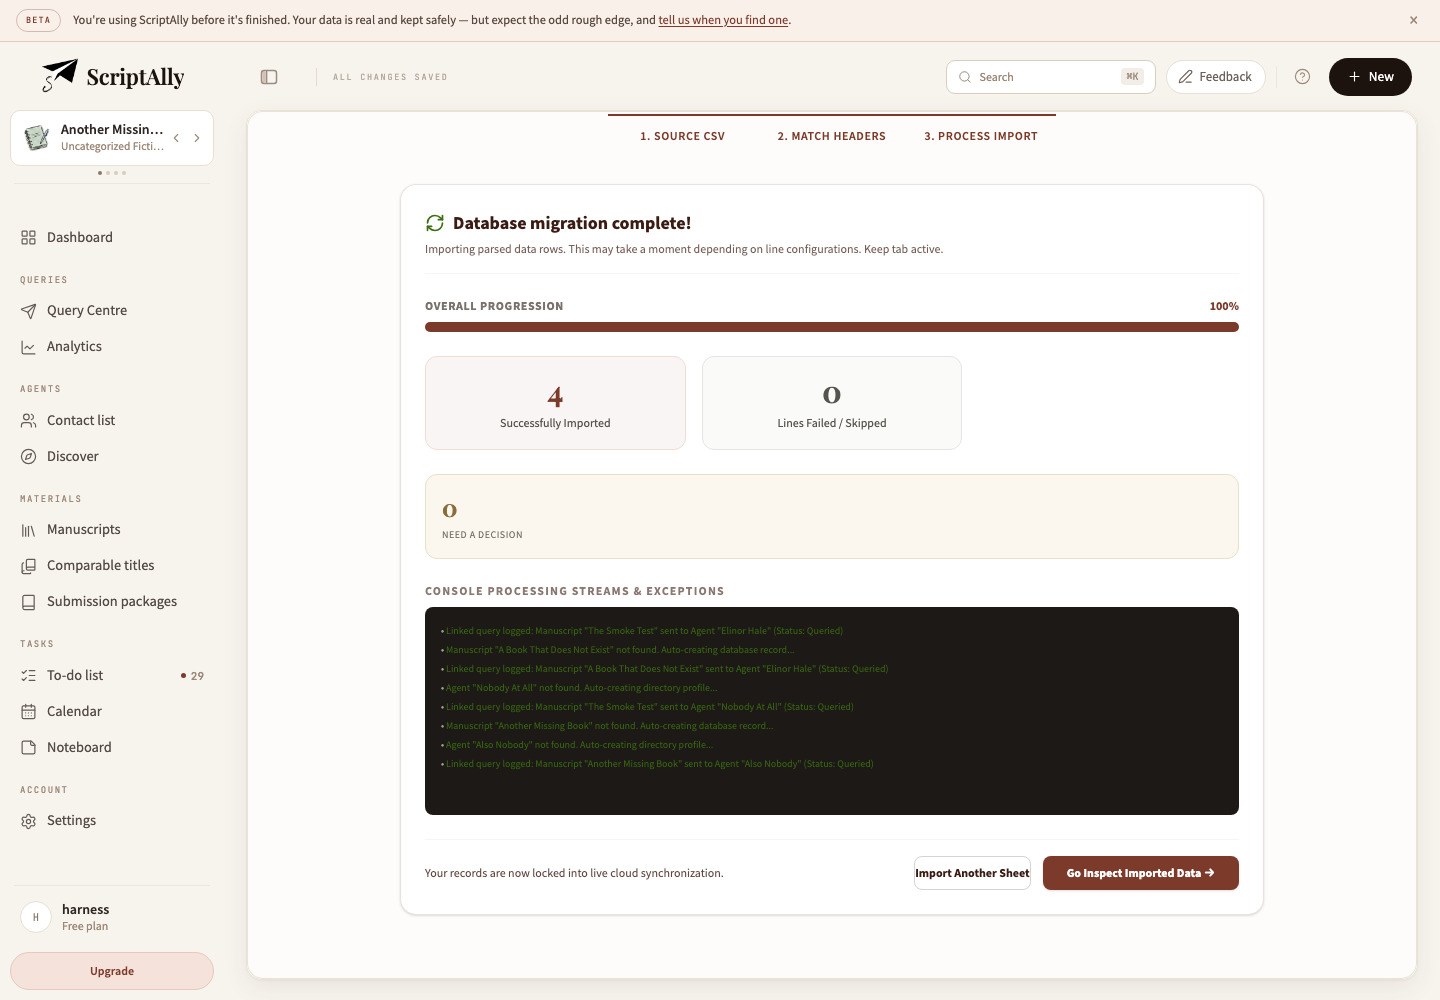
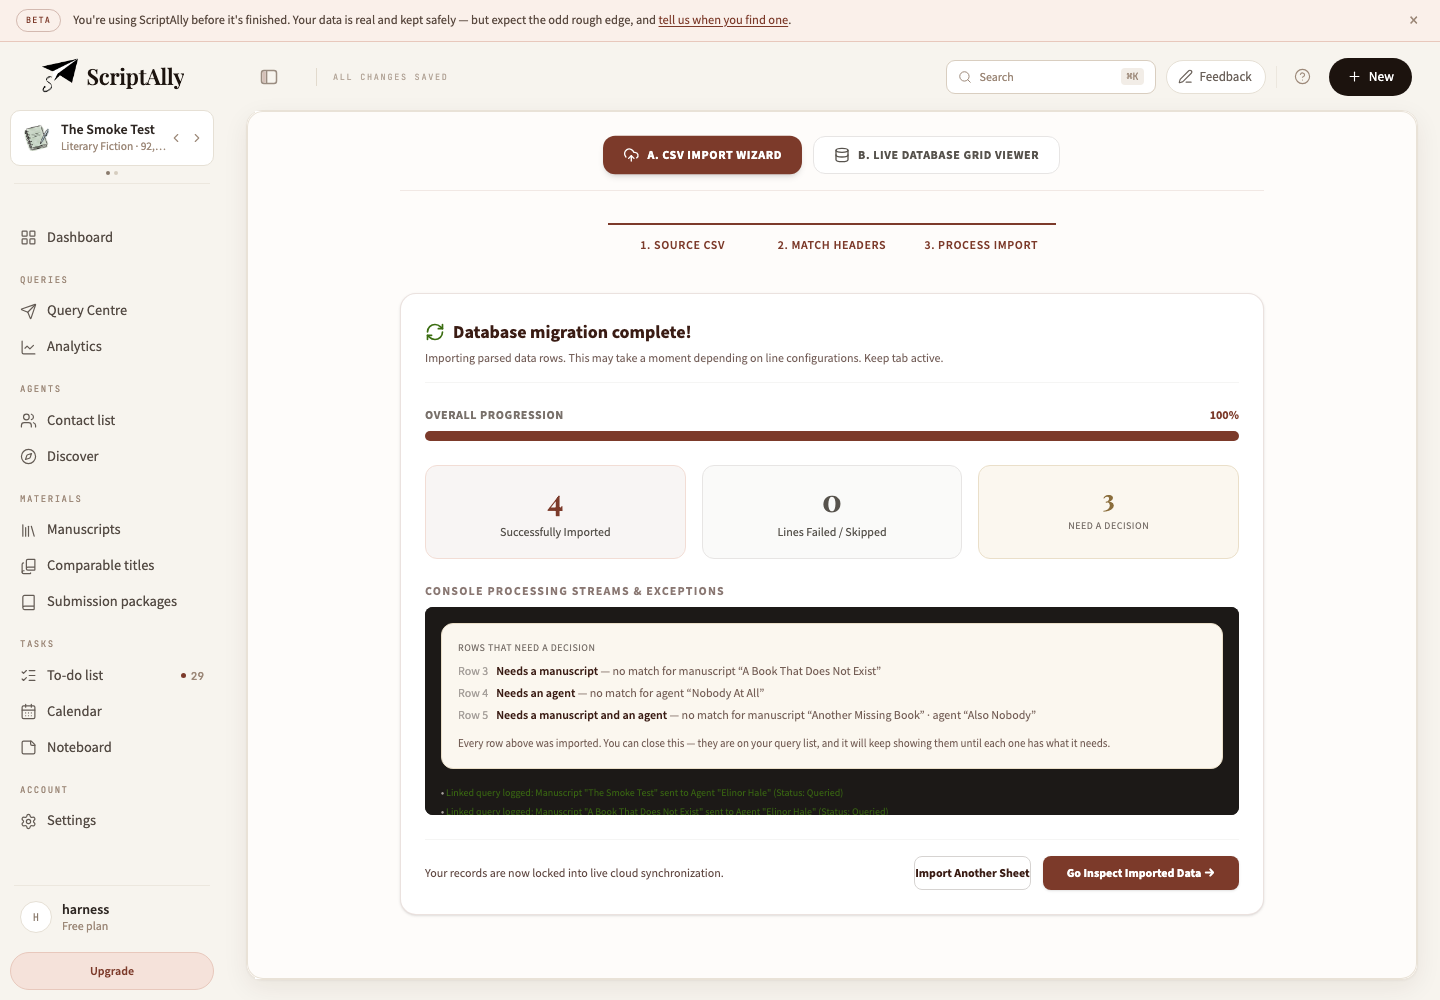
F-AF overnight Phases 3 & 4: creation on consent, and the fabrications swept
Phase 3 — "Create from this row" writes the title the CSV carried and the name the CSV
carried, and nothing else. Measured: the import creates nothing (2→2 manuscripts, 16→16
agents); on consent one of each, with genre "", logline "", wordCount 0, ageCategory "",
agency "", email "", mswlNotes "" and NO starRating — then the query is linked to both.

`starRating`, `responseTimeWeeks` and `noResponseMeansNo` are OMITTED rather than
defaulted: the rules make each optional and this app treats absence as a first-class
state for all three. Writing a default would be the `starRating: 3` the auto-create
block was just retired for.

⚠ `materialsWanted: []` IS REQUIRED AND IS NOT A FABRICATION. `isValidAgent` asks for a
list; omitting it was DENIED, and the agent silently failed to create while the
manuscript succeeded — a half-done write, found only because the drive counted both
sides rather than asserting the one it expected.

⚠ AND IT RESOLVES THE FLAG BY LINKING, NOT BY CLEARING ONE. The query's manuscriptId
and agentId are filled in, so the derived banner stops counting the row because it has
what it needed. There is no flag field to unset, which is the point of deriving it.

Phase 4 — eight fixed, three flagged, one benign. Fixed: agency ("Independent"), email
("unlisted@agent.com"), mswlNotes, genre ("Fiction"), logline ("A compelling new
manuscript."), ageCategory ("Adult"), personalisationNotes — and ⚠ `wordCount || 85000`,
[…]

diff --git a/src/components/ImportCsv.tsx b/src/components/ImportCsv.tsx
@@ -184,6 +184,7 @@ export const ImportCsv: React.FC<{
     addManuscript,
     addQuery,
     addActivity,
+    updateQuery,
   } = useScriptAllyDb();
 
   const [importType, setImportType] = useState<ImportType>("agents");
@@ -212,7 +213,16 @@ export const ImportCsv: React.FC<{
      * Counting it as "failed" would say the data is not there; counting it as "successful" would
      * say nothing needs doing. It is its own state because it is its own fact.
      */
-    unmatched: { row: number; missing: string; detail: string }[];
+    /**
+     * ⚠ IT CARRIES THE CSV'S OWN VALUES AND NOTHING ELSE (D2). `msTitle` and `agentName` are what
+     * the row said; there is no genre, logline, word count or email here because the row did not
+     * supply them, and creation must not fill what was never given.
+     */
+    unmatched: {
+      row: number; missing: string; detail: string;
+      queryId: string; msTitle: string; agentName: string;
+      needsMs: boolean; needsAgent: boolean;
+    }[];
   }>({ successful: 0, failed: 0, errors: [], logs: [], unmatched: [] });
 
   const targetFields = {
@@ -294,6 +304,68 @@ export const ImportCsv: React.FC<{
   };
 
   // Handle execution of the import
+  /**
+   * ⚠ CREATION WITH CONSENT, FROM VALUES THE ROW ACTUALLY GAVE (D2).
+   *
+   * The importer no longer creates anything by itself; this runs only when the writer asks, from
+   * the summary. It writes the TITLE the CSV carried and the NAME the CSV carried, and leaves every
+   * other field empty — no genre, no logline, no age category, no word count, no email, no star
+   * rating. An empty logline is honest; a written one is a sentence about someone's novel that they
+   * did not write.
+   *
+   * ⚠ AND IT RESOLVES THE FLAG BY LINKING, not by clearing it. The query's `manuscriptId` /
+   * `agentId` are filled in, so the row stops being counted by the derived banner because it has
+   * what it needed — there is no flag field to unset, which is the point of deriving it.
+   */
+  const [creating, setCreating] = useState<number | null>(null);
+  const createFromRow = async (u: {
+    row: number; queryId: string; msTitle: string; agentName: string;
+    needsMs: boolean; needsAgent: boolean;
+  }) => {
+    if (!currentUser) return;
+    setCreating(u.row);
+    try {
+      const patch: { manuscriptId?: string; agentId?: string } = {};
+      if (u.needsMs && u.msTitle) {
+        const id = "ms-fromrow-" + Math.random().toString(36).slice(2, 11);
+        const res = await addManuscript({
+          id,
+          title: u.msTitle,
+          /* ⚠ EVERY ONE OF THESE IS THE FIELD'S EMPTY FORM, not a default. The rules ask for a
+             string or an int; they do not ask for a value, and neither does the writer. */
+          genre: "", subGenres: [], wordCount: 0, logline: "", ageCategory: "", comps: [],
+          status: ManuscriptStatus.QUERYING,
+        } as never, true);
+        if (res.success) patch.manuscriptId = id;
+      }
+      if (u.needsAgent && u.agentName) {
+        const id = "agent-fromrow-" + Math.random().toString(36).slice(2, 11);
+        const res = await addAgent({
+          id,
+          name: u.agentName,
+          agency: "", email: "", website: "", genres: [], mswlNotes: "", notes: "",
+          submissionStatus: SubmissionStatus.OPEN,
+          submissionMethod: SubmissionMethod.EMAIL,
+          /* ⚠ REQUIRED BY `isValidAgent` AS A LIST, and an empty one is honest — the row stated no
+             materials. Omitting it was DENIED and the agent silently failed to create while the
+             manuscript succeeded, which is the half-done write this whole run is about. */
+          materialsWanted: [],
+          /* ⚠ `starRating`, `responseTimeWeeks` and `noResponseMeansNo` are OMITTED, deliberately.
+             The rules make each optional and this app treats absence as a first-class state for all
+             three — an unrated agent shows no stars rather than five hollow ones. Writing a default
+             here would be the `starRating: 3` the auto-create block was retired for. */
+        } as never, true);
+        if (res.success) patch.agentId = id;
+      }
+      if (Object.keys(patch).length) {
+        await updateQuery(u.queryId, patch as never);
+        setImportResults((r) => ({ ...r, unmatched: r.unmatched.filter((x) => x.row !== u.row) }));
+      }
+    } finally {
+      setCreating(null);
+    }
+  };
+
   const handleExecuteImport = async () => {
     setIsImporting(true);
     setImportProgress(0);
@@ -302,7 +374,11 @@ export const ImportCsv: React.FC<{
     let successfulCount = 0;
     let failedCount = 0;
     const errorsList: string[] = [];
-    const unmatchedList: { row: number; missing: string; detail: string }[] = [];
+    const unmatchedList: {
+    row: number; missing: string; detail: string;
+    queryId: string; msTitle: string; agentName: string;
+    needsMs: boolean; needsAgent: boolean;
+  }[] = [];
     const runLogs: string[] = [];
     
     const total = csvRows.length;
@@ -340,8 +416,25 @@ export const ImportCsv: React.FC<{
             continue;
           }
           
-          const agency = getMappedValue("agency") || "Independent";
-          const email = getMappedValue("email") || "unlisted@agent.com";
+          /**
+           * ⚠ NO FABRICATED FIELD VALUES (overnight ruling, rule 8). Seven of these carried a `||`
+           * fallback that wrote something the writer never supplied — `"Independent"` for an agency,
+           * `"unlisted@agent.com"` for an email, `"A compelling new manuscript."` for a logline,
+           * `"Fiction"` for a genre, `"Adult"` for an age category, and invented MSWL and
+           * personalisation notes. An empty field is honest; a filled one is a claim.
+           *
+           * ⚠ THE EMAIL IS THE ONE TO REMEMBER. A fabricated address sits on a real person's record
+           * and can be SENT TO — and nothing downstream distinguishes it from one the writer typed.
+           *
+           * ⚠ THREE FALLBACKS SURVIVE DELIBERATELY AND ARE FLAGGED, NOT FIXED: `notes` and
+           * `description` write true provenance ("Imported from Zite archives"), which is a
+           * different thing from a fabrication even though it is still words in a field the writer
+           * owns; and `responseTimeWeeks: 8` is a real default with a meaning rather than an
+           * invention. Each needs a call, and Phase 4's instruction is to fix the unambiguous and
+           * flag the rest.
+           */
+          const agency = getMappedValue("agency");
+          const email = getMappedValue("email");
           const website = getMappedValue("website") || "";
           
           // Custom parsing for genres (split by comma, semicolon, etc.)
@@ -350,7 +443,7 @@ export const ImportCsv: React.FC<{
             ? genresRaw.split(/[,;|]+/).map(g => g.trim()).filter(Boolean)
             : ["General Fiction"];
             
-          const mswlNotes = getMappedValue("mswlNotes") || "Imported MSWL focus points.";
+          const mswlNotes = getMappedValue("mswlNotes");
           
           // Star rating parsing
           const starRaw = parseInt(getMappedValue("starRating"), 10);
@@ -410,12 +503,16 @@ export const ImportCsv: React.FC<{
             continue;
           }
 
-          const genre = getMappedValue("genre") || "Fiction";
-          const wordCount = parseInt(getMappedValue("wordCount"), 10) || 85000;
-          const logline = getMappedValue("logline") || "A compelling new manuscript.";
+          const genre = getMappedValue("genre");
+          /* ⚠ `0`, NOT 85000. This read `parseInt(…) || 85000` — a word count for the writer's own
+             book, invented when the CSV did not carry one, and indistinguishable afterwards from a
+             figure they typed. `0` is the field's not-set form (the rules ask only for an int >= 0)
+             and the surfaces already render it as an empty field with a muted placeholder. */
+          const wordCount = parseInt(getMappedValue("wordCount"), 10) || 0;
+          const logline = getMappedValue("logline");
           // Comps column → structured titles-only comps (split on commas / " meets ").
           const comps = parseLegacyComps(getMappedValue("comps"));
-          const ageCategory = getMappedValue("ageCategory") || "Adult";
+          const ageCategory = getMappedValue("ageCategory");
 
           const msData = {
             title,
@@ -451,7 +548,7 @@ export const ImportCsv: React.FC<{
           const agentNameInput = getMappedValue("agentId");
           const statusInput = getMappedValue("status");
           const dateSentInput = getMappedValue("dateSent");
-          const personalisationNotes = getMappedValue("personalisationNotes") || "Zite query backup logs.";
+          const personalisationNotes = getMappedValue("personalisationNotes");
 
           if (!msTitleInput || !agentNameInput) {
             failedCount++;
@@ -542,6 +639,11 @@ export const ImportCsv: React.FC<{
               : !foundMs ? "Needs a manuscript" : "Needs an agent";
             unmatchedList.push({
               row: index + 2,
+              queryId,
+              msTitle: msTitleInput,
+              agentName: agentNameInput,
+              needsMs: !foundMs,
+              needsAgent: !foundAgent,
               missing,
               detail: [!foundMs ? `manuscript “${msTitleInput}”` : null,
                        !foundAgent ? `agent “${agentNameInput}”` : null]
@@ -1015,9 +1117,19 @@ export const ImportCsv: React.FC<{
                       {importResults.unmatched.map((u) => (
                         <li key={u.row} className="text-xs text-[#3a1c14] flex gap-2">
                           <span className="font-mono text-stone-400 shrink-0">Row {u.row}</span>
-                          <span><b className="font-semibold">{u.missing}</b>
+                          <span className="flex-1"><b className="font-semibold">{u.missing}</b>
                             {u.detail ? <span className="text-[#3a1c14]/70"> — no match for {u.detail}</span> : null}
                           </span>
+                          {/* ⚠ THE OFFER, NOT THE DEFAULT (D2). It creates from what the row gave —
+                              the title and the name — and leaves everything else empty. */}
+                          <button
+                            type="button"
+                            disabled={creating === u.row}
+                            onClick={() => void createFromRow(u)}
+                            className="shrink-0 text-[10px] font-mono uppercase tracking-wider text-[#7c3a2a] border-b border-[#e8c8bc] hover:text-[#3a1c14] disabled:opacity-50"
+                          >
+                            {creating === u.row ? "Creating…" : "Create from this row"}
+                          </button>
                         </li>
                       ))}
                     </ul>

diff --git a/tests/e2e/createFromRow.measure.ts b/tests/e2e/createFromRow.measure.ts
@@ -1,0 +1,87 @@
+import { test, expect } from "@playwright/test";
+import { openRoute, liftMotionSuppression } from "./measure";
+import { devDb } from "./devWrite";
+import { collection, getDocs, deleteDoc, doc } from "firebase/firestore";
+import { resolve } from "node:path";
+test.setTimeout(480_000);
+
+test("D2 — Create from this row invents nothing", async ({ page }) => {
+  page.setDefaultTimeout(25_000);
+  const { db, uid } = await devDb();
+  const before = {
+    q: (await getDocs(collection(db, "users", uid, "queries"))).docs.map((d) => d.id),
+    m: (await getDocs(collection(db, "users", uid, "manuscripts"))).docs.map((d) => d.id),
+    a: (await getDocs(collection(db, "users", uid, "agents"))).docs.map((d) => d.id),
+  };
+
+  await openRoute(page, "/import", { width: 1440, height: 1000 });
+  await liftMotionSuppression(page);
+  await page.waitForTimeout(1800);
+  await page.getByRole("button", { name: /Query Log Entries/i }).click();
+  await page.waitForTimeout(600);
+  const ta = page.locator('textarea[placeholder^="Header 1"]').first();
+  await ta.waitFor({ state: "visible" });
+  await ta.fill(`Manuscript Title,Agent Name,State,Date Sent
+Consent Probe Book,Consent Probe Agent,Queried,2026-08-05`);
+  await page.waitForTimeout(400);
+  await page.getByRole("button", { name: /Parse CSV Table/i }).click();
+  await page.waitForTimeout(1200);
+  await page.getByRole("button", { name: /Begin Processing Records/i }).click();
+  await page.waitForTimeout(5000);
+
+  /* nothing created by the import itself */
+  const midM = (await getDocs(collection(db, "users", uid, "manuscripts"))).docs.length;
+  const midA = (await getDocs(collection(db, "users", uid, "agents"))).docs.length;
+  console.log(`after import — manuscripts ${midM} (was ${before.m.length}) · agents ${midA} (was ${before.a.length})`);
+  expect(midM, "the import created a manuscript by itself").toBe(before.m.length);
+  expect(midA, "the import created an agent by itself").toBe(before.a.length);
+
+  const rowsShown = await page.evaluate(() =>
+    [...document.querySelectorAll("li")].map((l) => (l as HTMLElement).innerText.replace(/\n+/g, " "))
+      .filter((t) => /^Row \d/.test(t)));
+  console.log(`summary rows: ${JSON.stringify(rowsShown)}`);
+  expect(rowsShown.length).toBe(1);
+
+  /* now the writer asks */
+  const clicked = await page.evaluate(() => {
+    const b = [...document.querySelectorAll("button")]
+      .find((e) => (e as HTMLElement).offsetParent !== null && /create from this row/i.test((e as HTMLElement).innerText));
+    if (!b) return false; (b as HTMLButtonElement).click(); return true;
+  });
+  console.log(`clicked Create: ${clicked}`);
+  expect(clicked, "no Create control on the summary row").toBe(true);
+  await page.waitForTimeout(4000);
+  await page.screenshot({ path: resolve(process.cwd(), "reports/import-unmatched/create-from-row.png") });
+
+  const ms = (await getDocs(collection(db, "users", uid, "manuscripts"))).docs.filter((d) => !before.m.includes(d.id));
+  const ag = (await getDocs(collection(db, "users", uid, "agents"))).docs.filter((d) => !before.a.includes(d.id));
+  console.log(`created on consent — manuscripts ${ms.length} · agents ${ag.length}`);
+  expect(ms.length, "no manuscript was created on consent").toBe(1);
+  expect(ag.length, "no agent was created on consent").toBe(1);
+
+  const m = ms[0].data() as Record<string, unknown>;
+  const a = ag[0].data() as Record<string, unknown>;
+  console.log(`MANUSCRIPT: ${JSON.stringify({ title: m.title, genre: m.genre, logline: m.logline, wordCount: m.wordCount, ageCategory: m.ageCategory })}`);
+  console.log(`AGENT     : ${JSON.stringify({ name: a.name, agency: a.agency, email: a.email, starRating: a.starRating, mswlNotes: a.mswlNotes })}`);
+  expect(m.title).toBe("Consent Probe Book");
+  expect(m.genre, "a genre was invented").toBe("");
+  expect(m.logline, "a logline was invented").toBe("");
+  expect(m.wordCount, "a word count was invented").toBe(0);
+  expect(m.ageCategory, "an age category was invented").toBe("");
+  expect(a.name).toBe("Consent Probe Agent");
+  expect(a.agency, "an agency was invented").toBe("");
+  expect(a.email, "an email address was invented").toBe("");
+  expect(a.starRating ?? "", "a star rating was invented").toBe("");
+
+  /* and the query is linked, so the flag resolves */
+  const q = (await getDocs(collection(db, "users", uid, "queries"))).docs.filter((d) => !before.q.includes(d.id));
+  const qd = q[0].data() as { manuscriptId?: string; agentId?: string };
+  console.log(`query now: ms="${qd.manuscriptId}" ag="${qd.agentId}"`);
+  expect(qd.manuscriptId).toBe(ms[0].id);
+  expect(qd.agentId).toBe(ag[0].id);
+
+  for (const d of q) await deleteDoc(doc(db, "users", uid, "queries", d.id));
+  for (const d of ms) await deleteDoc(doc(db, "users", uid, "manuscripts", d.id));
+  for (const d of ag) await deleteDoc(doc(db, "users", uid, "agents", d.id));
+  console.log("probes removed");
+});

diff --git a/reports/import-unmatched.md b/reports/import-unmatched.md
@@ -267,3 +267,50 @@ survived an earlier run that errored before its cleanup. The count is derived fr
 than from the import, so it counts what is there — which is the property that makes it a record
 rather than a receipt. Verified the other way too: with the last flagged row removed, the banner is
 gone.
+
+## Phase 3 — creation with consent
+
+"Create from this row" sits on each summary row. It writes **the title the CSV carried and the name
+the CSV carried**, and nothing else.
+
+```
+after import          : manuscripts 2 (was 2) · agents 16 (was 16)   ← the import creates nothing
+on consent            : manuscripts 1 · agents 1
+MANUSCRIPT            : title "Consent Probe Book" · genre "" · logline "" · wordCount 0 · ageCategory ""
+AGENT                 : name "Consent Probe Agent" · agency "" · email "" · mswlNotes "" · no starRating
+query now             : ms="ms-fromrow-…" ag="agent-fromrow-…"
+```
+
+`starRating`, `responseTimeWeeks` and `noResponseMeansNo` are **omitted**, not defaulted — the rules
+make each optional and this app treats absence as a first-class state for all three. Writing a
+default would be the `starRating: 3` the auto-create block was retired for.
+
+⚠ **`materialsWanted: []` is required and is not a fabrication.** `isValidAgent` asks for a list;
+omitting it was **denied**, and the agent silently failed to create while the manuscript succeeded —
+a half-done write, found only because the drive counted both. An empty list is honest: the row
+stated no materials.
+
+⚠ **And it resolves the flag by LINKING, not by clearing one.** The query's `manuscriptId` and
+`agentId` are filled in, so the derived banner stops counting the row because it has what it needed.
+There is no flag field to unset — which is the point of deriving it.
+
+## Phase 4 — the sweep
+
+Eight fixed, three flagged, one benign.
+
+**Fixed** — every one now empty when the CSV does not supply it: `agency` (was `"Independent"`),
+`email` (was `"unlisted@agent.com"`), `mswlNotes`, `genre` (was `"Fiction"`), `logline` (was
+`"A compelling new manuscript."`), `ageCategory` (was `"Adult"`), `personalisationNotes` — and
+**`wordCount`, which was `|| 85000`** and was not in the list I gave last run. That is a specific
+figure about the writer's own novel, invented when the column was absent.
+
+**Flagged, not fixed** — each is either true or a genuine default, and Phase 4's instruction is to
+fix the unambiguous:
+
+| line | value | why it survives |
+|---|---|---|
+| 378 | `notes \|\| "Imported from Zite archives."` | true provenance, but written into a field the writer owns |
+| 590 | `description \|\| "Activity logged via CSV Import."` | same shape |
+| 389 | `responseTimeWeeks: 8` (agent import) | a real default with a meaning, not an invention |
+
+**Benign:** `act.details || "--"` — display only, writes nothing.
